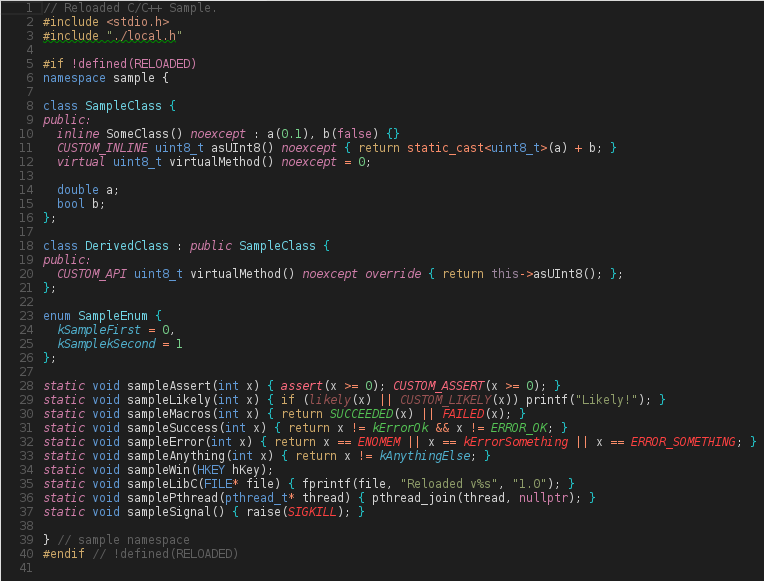
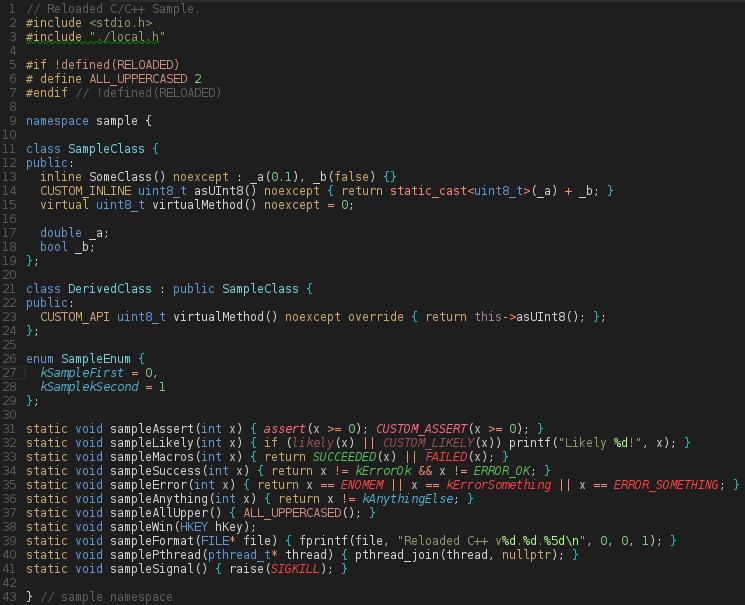
Minor adjustments

diff --git a/samples/sample.cpp b/samples/sample.cpp
@@ -3,16 +3,19 @@
 #include "./local.h"
 
 #if !defined(RELOADED)
+# define ALL_UPPERCASED 2
+#endif // !defined(RELOADED)
+
 namespace sample {
 
 class SampleClass {
 public:
-  inline SomeClass() noexcept : a(0.1), b(false) {}
-  CUSTOM_INLINE uint8_t asUInt8() noexcept { return static_cast<uint8_t>(a) + b; }
+  inline SomeClass() noexcept : _a(0.1), _b(false) {}
+  CUSTOM_INLINE uint8_t asUInt8() noexcept { return static_cast<uint8_t>(_a) + _b; }
   virtual uint8_t virtualMethod() noexcept = 0;
 
-  double a;
-  bool b;
+  double _a;
+  bool _b;
 };
 
 class DerivedClass : public SampleClass {
@@ -26,15 +29,15 @@ enum SampleEnum {
 };
 
 static void sampleAssert(int x) { assert(x >= 0); CUSTOM_ASSERT(x >= 0); }
-static void sampleLikely(int x) { if (likely(x) || CUSTOM_LIKELY(x)) printf("Likely!"); }
+static void sampleLikely(int x) { if (likely(x) || CUSTOM_LIKELY(x)) printf("Likely %d!", x); }
 static void sampleMacros(int x) { return SUCCEEDED(x) || FAILED(x); }
 static void sampleSuccess(int x) { return x != kErrorOk && x != ERROR_OK; }
 static void sampleError(int x) { return x == ENOMEM || x == kErrorSomething || x == ERROR_SOMETHING; }
 static void sampleAnything(int x) { return x != kAnythingElse; }
+static void sampleAllUpper() { ALL_UPPERCASED(); }
 static void sampleWin(HKEY hKey);
-static void sampleLibC(FILE* file) { fprintf(file, "Reloaded v%s", "1.0"); }
+static void sampleFormat(FILE* file) { fprintf(file, "Reloaded C++ v%d.%d.%5d\n", 0, 0, 1); }
 static void samplePthread(pthread_t* thread) { pthread_join(thread, nullptr); }
 static void sampleSignal() { raise(SIGKILL); }
 
 } // sample namespace
-#endif // !defined(RELOADED)
